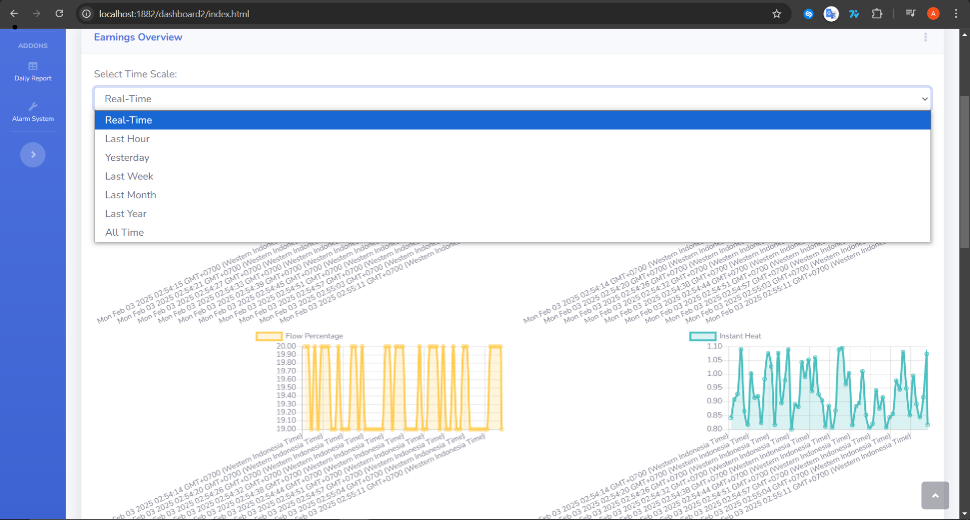
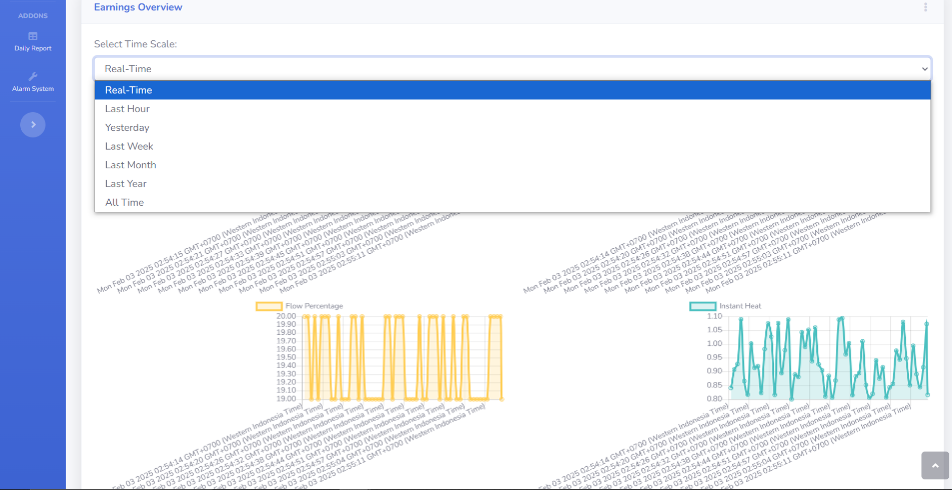
Add Indonesian translation and align Timah dashboard gallery

Changed region(s): [[0.0, 0.0, 1.0, 1.0]]

diff --git a/script.js b/script.js
@@ -68,7 +68,72 @@ const textPairs = [
   ['PT Timah Industrial Monitoring', 'Monitoring Industri PT Timah'],
   ['Real-time process monitoring from industrial measurement to MQTT, SQL history, and dashboard visualization.', 'Monitoring proses real-time dari pengukuran industri ke MQTT, histori SQL, dan visualisasi dashboard.'],
   ['Industrial Flowmeter Monitoring System', 'Sistem Monitoring Flowmeter Industri'],
+  ['Industrial Flowmeter', 'Sistem Monitoring'],
+  ['Monitoring System', 'Flowmeter Industri'],
   ['Centralized industrial instrumentation monitoring developed during my PT Timah Industri internship, integrating Modbus RS-485, ESP32, MQTT, database storage, and web visualization.', 'Monitoring instrumentasi industri terpusat yang dikembangkan selama magang saya di PT Timah Industri, mengintegrasikan Modbus RS-485, ESP32, MQTT, penyimpanan database, dan visualisasi web.'],
+  ['PT Timah Industri · Internship Project', 'PT Timah Industri · Proyek Magang'],
+  ['Centralized monitoring of industrial flowmeter measurements for improved visibility of operational data and historical trends.', 'Sistem monitoring terpusat untuk mengintegrasikan pengukuran flowmeter industri serta mempermudah pemantauan data operasional dan tren historis.'],
+  ['Launch Live Demo', 'Buka Live Demo'],
+  ['Explore Project', 'Lihat Proyek'],
+  ['System overview', 'Gambaran sistem'],
+  ['Internship', 'Magang'],
+  ['Field instrument', 'Instrumen lapangan'],
+  ['Web dashboard', 'Dashboard web'],
+  ['Mechanical Engineering Intern', 'Magang Teknik Mesin'],
+  ['Maintenance Department', 'Departemen Perawatan'],
+  ['Industrial Instrumentation & Monitoring', 'Instrumentasi & Monitoring Industri'],
+  ['The challenge', 'Tantangan'],
+  ['From isolated readings to shared visibility.', 'Dari pembacaan terpisah menuju monitoring terpusat.'],
+  ['Flowmeter measurements were available at individual instruments and control-panel locations, limiting convenient centralized observation and historical analysis. The project explored a data-acquisition and monitoring architecture capable of bringing these measurements into a unified digital interface.', 'Data flowmeter sebelumnya tersedia pada masing-masing instrumen dan lokasi panel kontrol sehingga pemantauan terpusat dan analisis historis menjadi terbatas. Proyek ini mengembangkan konsep akuisisi dan monitoring data untuk mengintegrasikan pengukuran tersebut ke dalam satu antarmuka digital.'],
+  ['Installed flowmeter units used in the monitoring context.', 'Unit flowmeter terpasang yang digunakan dalam konteks monitoring.'],
+  ['My role & contribution', 'Peran & Kontribusi Saya'],
+  ['Studied available flowmeter parameters and communication interfaces', 'Mempelajari parameter flowmeter dan antarmuka komunikasi yang tersedia'],
+  ['Worked with Modbus RTU over RS-485 for communication and testing', 'Menggunakan Modbus RTU melalui RS-485 untuk komunikasi dan pengujian instrumen'],
+  ['Developed an ESP32-based acquisition concept', 'Mengembangkan konsep akuisisi data berbasis ESP32'],
+  ['Built the MQTT/network data flow', 'Membangun alur transmisi data melalui MQTT dan jaringan'],
+  ['Structured timestamped sensor storage with MySQL', 'Menyusun penyimpanan data sensor bertimestamp menggunakan MySQL'],
+  ['Developed real-time and historical web visualization', 'Mengembangkan visualisasi web real-time dan historis'],
+  ['Integrated multiple monitored locations into one interface', 'Mengintegrasikan beberapa titik monitoring dalam satu antarmuka'],
+  ['Tested and documented the monitoring concept', 'Menguji dan mendokumentasikan konsep sistem monitoring'],
+  ['System architecture', 'Arsitektur Sistem'],
+  ['Measurement to decision support.', 'Dari pengukuran hingga informasi untuk monitoring.'],
+  ['A connected internship implementation spanning field communication, acquisition, transport, storage, and browser visualization.', 'Implementasi terintegrasi yang mencakup komunikasi instrumen, akuisisi data, transmisi, penyimpanan, dan visualisasi berbasis web.'],
+  ['Instrument', 'Instrumen'],
+  ['Acquisition', 'Akuisisi'],
+  ['Network', 'Jaringan'],
+  ['Processing', 'Pemrosesan'],
+  ['Database', 'Database'],
+  ['Live + history', 'Real-Time + Historis'],
+  ['Monitored parameters', 'Parameter yang Dimonitor'],
+  ['One view of the process.', 'Satu tampilan untuk berbagai parameter proses.'],
+  ['The interface grouped core measurements and totalizers into a consistent monitoring view.', 'Antarmuka mengintegrasikan parameter pengukuran utama dan totalizer dalam satu tampilan monitoring.'],
+  ['Flow Rate', 'Laju Aliran'],
+  ['Flow Velocity', 'Kecepatan Aliran'],
+  ['Flow Percentage', 'Persentase Aliran'],
+  ['Instant Heat', 'Kalor Sesaat'],
+  ['Inlet Temperature', 'Temperatur Masuk'],
+  ['Outlet Temperature', 'Temperatur Keluar'],
+  ['Positive Total', 'Total Positif'],
+  ['Negative Total', 'Total Negatif'],
+  ['Heating Total', 'Total Pemanasan'],
+  ['Cooling Total', 'Total Pendinginan'],
+  ['Dashboard implementation', 'Implementasi Dashboard'],
+  ['Real-time status and historical review.', 'Monitoring real-time dan peninjauan data historis.'],
+  ['The web interface consolidated multiple flowmeter parameters into a centralized monitoring view and provided both real-time visualization and selectable historical ranges.', 'Antarmuka web mengintegrasikan berbagai parameter flowmeter dalam satu sistem monitoring serta menyediakan visualisasi real-time dan pemilihan rentang data historis.'],
+  ['Main dashboard / overview', 'Dashboard utama / gambaran umum'],
+  ['Historical record / reporting view', 'Monitoring data historis'],
+  ['Original internship-context dashboard evidence.', 'Bukti dashboard dalam konteks kegiatan magang.'],
+  ['Original monitoring dashboard developed during my internship at PT Timah Industri. These screenshots document the internship-era interface and are distinct from the reconstructed public live demo.', 'Dashboard monitoring asli yang dikembangkan selama kegiatan magang di PT Timah Industri. Tangkapan layar ini mendokumentasikan antarmuka pada masa magang dan berbeda dari rekonstruksi demo publik.'],
+  ['Project outcome & experience', 'Hasil Proyek & Pengalaman'],
+  ['An end-to-end industrial monitoring experience.', 'Pengalaman membangun sistem monitoring industri secara menyeluruh.'],
+  ['The project produced a functional prototype for centralized acquisition, storage, and visualization of industrial flowmeter data. It demonstrated a complete data path from industrial instrumentation and digital communication to database storage and browser-based monitoring.', 'Proyek ini menghasilkan prototipe fungsional untuk akuisisi, penyimpanan, dan visualisasi data flowmeter industri secara terpusat. Sistem mendemonstrasikan alur data lengkap mulai dari instrumentasi dan komunikasi digital hingga penyimpanan database dan monitoring berbasis web.'],
+  ['The work provided practical experience connecting mechanical and industrial instrumentation with embedded systems, Modbus communication, MQTT, databases, and web-based engineering interfaces.', 'Proyek ini memberikan pengalaman praktis dalam mengintegrasikan instrumentasi mekanikal dan industri dengan embedded system, komunikasi Modbus, MQTT, database, serta antarmuka monitoring berbasis web.'],
+  ['Live demo · synthetic data', 'Live demo · data sintetis'],
+  ['Explore the Live Monitoring Demo', 'Jelajahi Demo Monitoring Langsung'],
+  ['An interactive demonstration of the monitoring concept is available using synthetic telemetry generated by a physical ESP32.', 'Demo interaktif sistem monitoring tersedia menggunakan telemetri sintetis yang dihasilkan oleh ESP32 fisik.'],
+  ['Portfolio reconstruction demo: ESP32 publishing synthetic telemetry to the public dashboard.', 'Demo rekonstruksi portofolio: ESP32 mengirimkan telemetri sintetis ke dashboard publik.'],
+  ['Portfolio disclosure:', 'Pernyataan portofolio:'],
+  ['The live demo uses synthetic telemetry and is not connected to PT Timah Industri infrastructure.', 'Demo publik menggunakan telemetri sintetis dan tidak terhubung dengan infrastruktur PT Timah Industri.'],
   ['Research · Manufacturing', 'Riset · Manufaktur'],
   ['Experimental study of burr height and dimensional accuracy in micro-machining of a titanium implant geometry.', 'Studi eksperimen tinggi burr dan akurasi dimensi pada micro-machining geometri implan titanium.'],
   ['Mechanical Design', 'Desain Mekanik'],
@@ -93,6 +158,7 @@ const textPairs = [
   ['Automation / In Development', 'Otomasi / Dalam Pengembangan'],
   ['Robotics / Planned', 'Robotika / Direncanakan'],
   ['Back to projects', 'Kembali ke proyek'],
+  ['← Back to projects', '← Kembali ke proyek'],
   ['Problem', 'Masalah'],
   ['Approach', 'Pendekatan'],
   ['Outcome', 'Hasil'],
@@ -206,7 +272,7 @@ function translateTextNodes(lang) {
   const from = lang === 'id' ? 0 : 1;
   const to = lang === 'id' ? 1 : 0;
   const map = new Map(textPairs.map(pair => [normalizeText(pair[from]), pair[to]]));
-  const selector = 'a, button, h1, h2, h3, p, span, dt, dd, li';
+  const selector = 'a, button, h1, h2, h3, p, span, strong, figcaption, small, dt, dd, li';
 
   document.querySelectorAll(selector).forEach(element => {
     if (element.closest('.lang-switch')) return;

diff --git a/projects/pt-timah-industrial-monitoring.html b/projects/pt-timah-industrial-monitoring.html
@@ -20,9 +20,9 @@
       <div class="timah-hero-grid">
         <div class="timah-hero-copy">
           <p class="timah-eyebrow">PT Timah Industri &middot; Internship Project</p>
-          <h1>Industrial Flowmeter<br />Monitoring System</h1>
+          <h1><span>Industrial Flowmeter</span><br /><span>Monitoring System</span></h1>
           <p class="timah-lead">Centralized monitoring of industrial flowmeter measurements for improved visibility of operational data and historical trends.</p>
-          <div class="timah-actions"><a class="button timah-button-primary" href="https://amirulihakim.github.io/industrial-flow-monitoring/" target="_blank" rel="noopener noreferrer">Launch Live Demo <span aria-hidden="true">&nearr;</span></a><a class="button timah-button-ghost" href="#project-overview">Explore Project <span aria-hidden="true">&darr;</span></a></div>
+          <div class="timah-actions"><a class="button timah-button-primary" href="https://amirulihakim.github.io/industrial-flow-monitoring/" target="_blank" rel="noopener noreferrer"><span>Launch Live Demo</span> <span aria-hidden="true">&nearr;</span></a><a class="button timah-button-ghost" href="#project-overview"><span>Explore Project</span> <span aria-hidden="true">&darr;</span></a></div>
         </div>
         <div class="timah-system-card" aria-label="System overview">
           <div class="timah-system-head"><span>System overview</span><span class="timah-status-dot">Internship</span></div>
@@ -65,8 +65,8 @@
     <section class="timah-section container timah-outcome"><p class="timah-section-label">Project outcome &amp; experience</p><div><h2>An end-to-end industrial monitoring experience.</h2><p>The project produced a functional prototype for centralized acquisition, storage, and visualization of industrial flowmeter data. It demonstrated a complete data path from industrial instrumentation and digital communication to database storage and browser-based monitoring.</p><p>The work provided practical experience connecting mechanical and industrial instrumentation with embedded systems, Modbus communication, MQTT, databases, and web-based engineering interfaces.</p></div></section>
 
     <section id="live-demo" class="timah-section container">
-      <div class="timah-demo-card"><div class="timah-demo-copy"><p class="timah-section-label">Live demo &middot; synthetic data</p><h2>Explore the Live Monitoring Demo</h2><p>An interactive demonstration of the monitoring concept is available using synthetic telemetry generated by a physical ESP32.</p><a class="button timah-button-primary" href="https://amirulihakim.github.io/industrial-flow-monitoring/" target="_blank" rel="noopener noreferrer">Launch Live Demo <span aria-hidden="true">&nearr;</span></a></div><figure class="timah-media-card timah-video-media"><video controls muted playsinline preload="metadata"><source src="../assets/projects/timah/esp32-demo.mp4" type="video/mp4" />Your browser does not support embedded video.</video><figcaption>Portfolio reconstruction demo: ESP32 publishing synthetic telemetry to the public dashboard.</figcaption></figure></div>
-      <p class="timah-disclaimer"><strong>Portfolio disclosure:</strong> The live demo uses synthetic telemetry and is not connected to PT Timah Industri infrastructure.</p>
+      <div class="timah-demo-card"><div class="timah-demo-copy"><p class="timah-section-label">Live demo &middot; synthetic data</p><h2>Explore the Live Monitoring Demo</h2><p>An interactive demonstration of the monitoring concept is available using synthetic telemetry generated by a physical ESP32.</p><a class="button timah-button-primary" href="https://amirulihakim.github.io/industrial-flow-monitoring/" target="_blank" rel="noopener noreferrer"><span>Launch Live Demo</span> <span aria-hidden="true">&nearr;</span></a></div><figure class="timah-media-card timah-video-media"><video controls muted playsinline preload="metadata"><source src="../assets/projects/timah/esp32-demo.mp4" type="video/mp4" />Your browser does not support embedded video.</video><figcaption>Portfolio reconstruction demo: ESP32 publishing synthetic telemetry to the public dashboard.</figcaption></figure></div>
+      <p class="timah-disclaimer"><strong>Portfolio disclosure:</strong> <span>The live demo uses synthetic telemetry and is not connected to PT Timah Industri infrastructure.</span></p>
     </section>
 
     <section class="project-band"><div class="container next-projects"><a href="../index.html#projects">All projects</a><a href="cp-titanium-micro-milling.html">Next: CP-Titanium Micro-Milling</a></div></section>

diff --git a/styles.css b/styles.css
@@ -702,9 +702,9 @@ h3 { font-size: 1.45rem; }
 .timah-dashboard-section h2, .timah-heading-light h2 { color: #fff; }
 .timah-dashboard-section p { color: #aabbd0; }
 .timah-heading-light .timah-section-label { color: #63c5ed; }
-.timah-evidence-grid { display: grid; grid-template-columns: repeat(2, minmax(0, 1fr)); gap: 20px; align-items: start; }
+.timah-evidence-grid { display: grid; grid-template-columns: repeat(2, minmax(0, 1fr)); gap: 20px; align-items: stretch; }
 .timah-dashboard-media { border-color: #294765; background: #0d233f; box-shadow: 0 20px 45px rgba(0,0,0,.22); }
-.timah-dashboard-media img { aspect-ratio: auto; object-fit: contain; background: #fff; }
+.timah-dashboard-media img { aspect-ratio: 16 / 9; object-fit: contain; background: #fff; }
 .timah-dashboard-media figcaption { display: grid; gap: 3px; color: #94aac0; }
 .timah-dashboard-media figcaption strong { color: #fff; font-size: .85rem; }
 .timah-dashboard-media figcaption span { display: block; }
